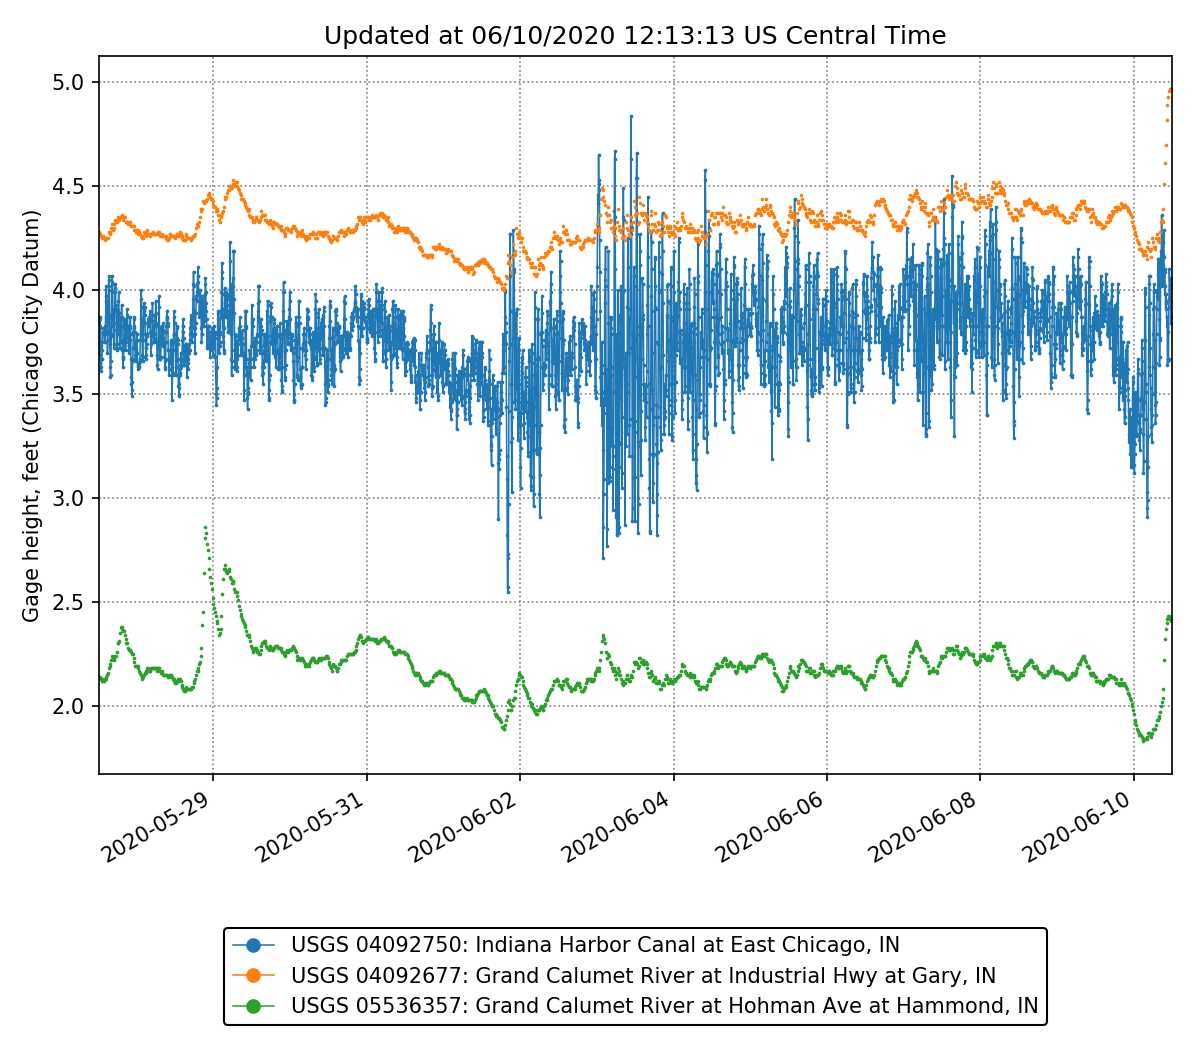
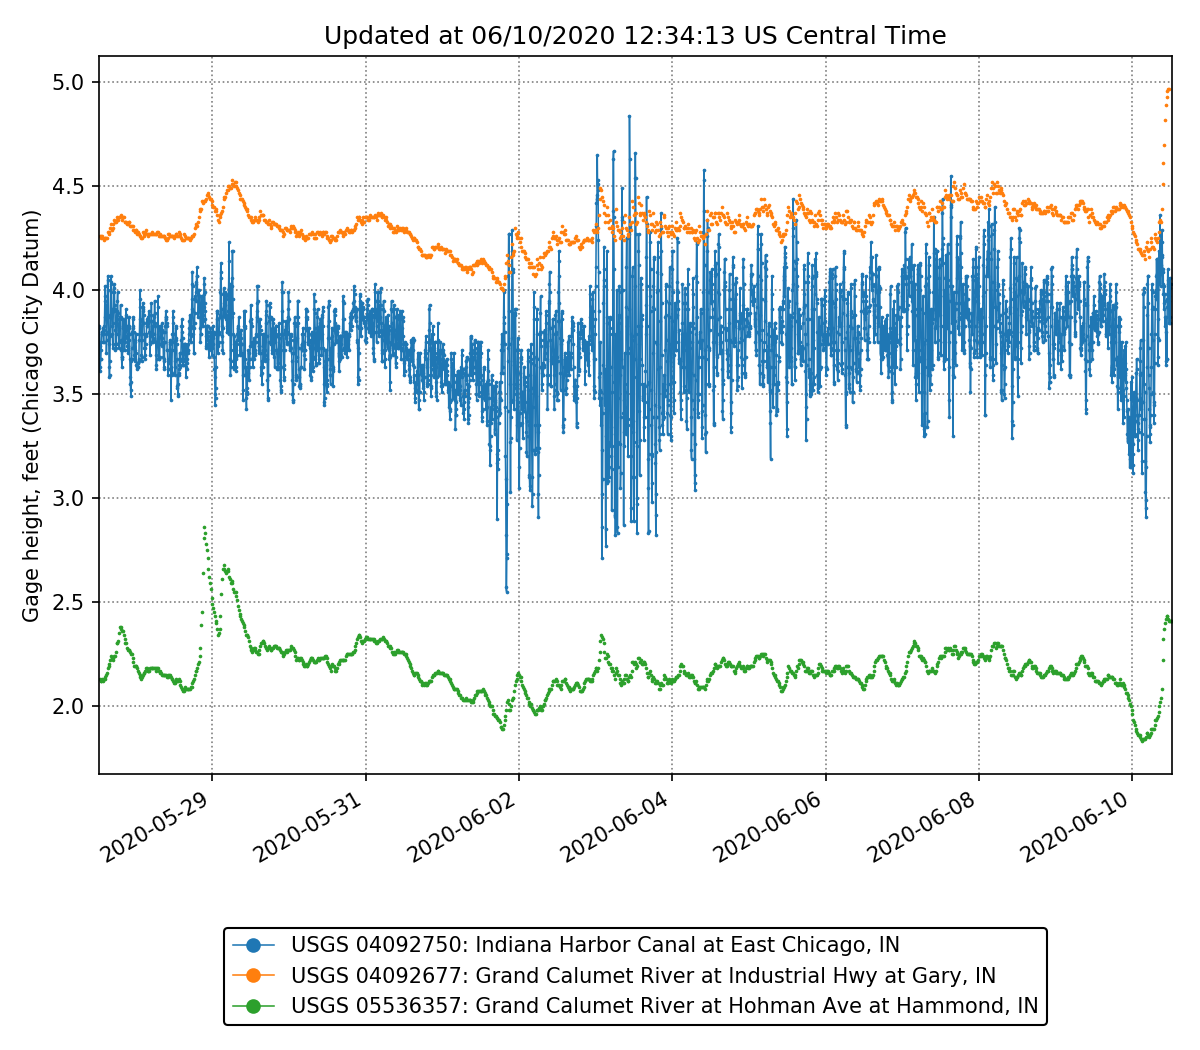
Updated: 2020-06-10 12:34:21

diff --git a/hf.py b/hf.py
@@ -92,6 +92,7 @@ df = hf.NWIS(stationNum, 'iv', period='P14D', parameterCd='00060').get_data().df
 for i, n in enumerate(stationNum):
     df.drop(df.columns[2*(len(stationNum)-i)-1], axis=1, inplace=True)
     df.rename(columns={'USGS:' + n + ':00060:00000': 'USGS ' + n + ': ' + stationName[stationNum.index(n)]}, inplace=True)
+df[df < 0] = np.nan
 df.to_csv('discharge-IL-dataframe.csv', float_format='%.2f', na_rep='nan')
 ax = df.plot(linewidth=.75, marker='o', markersize=.75, figsize=(8,7), logy=True)
 ax.grid(color='grey', linestyle=':')
